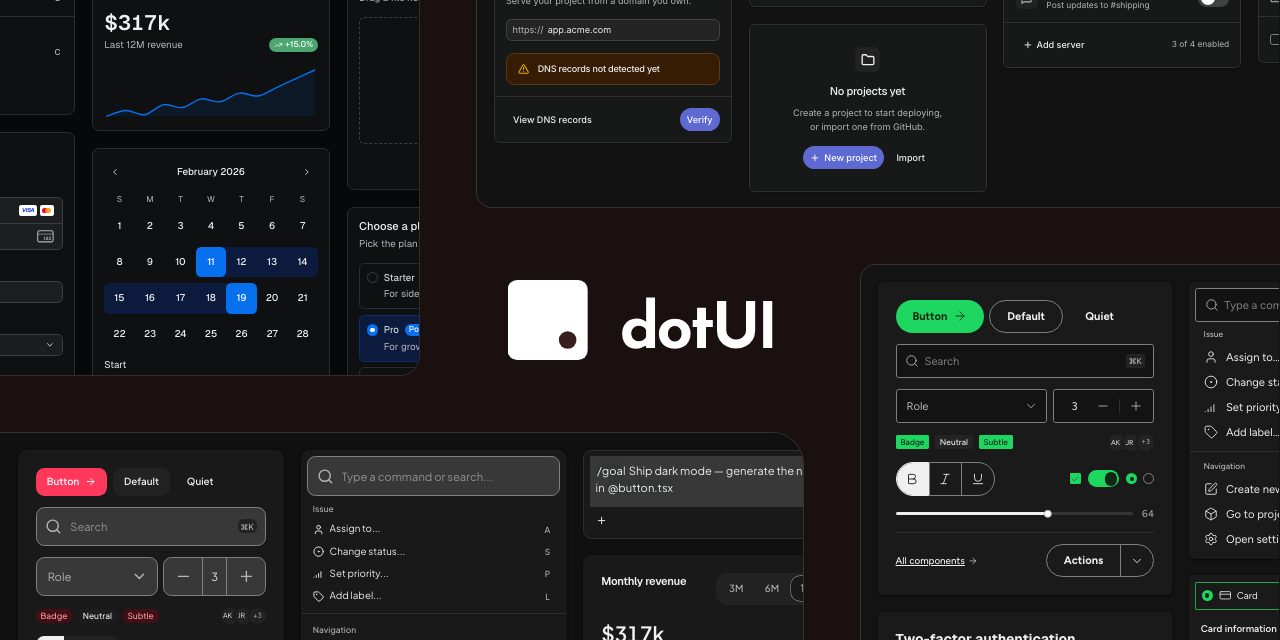
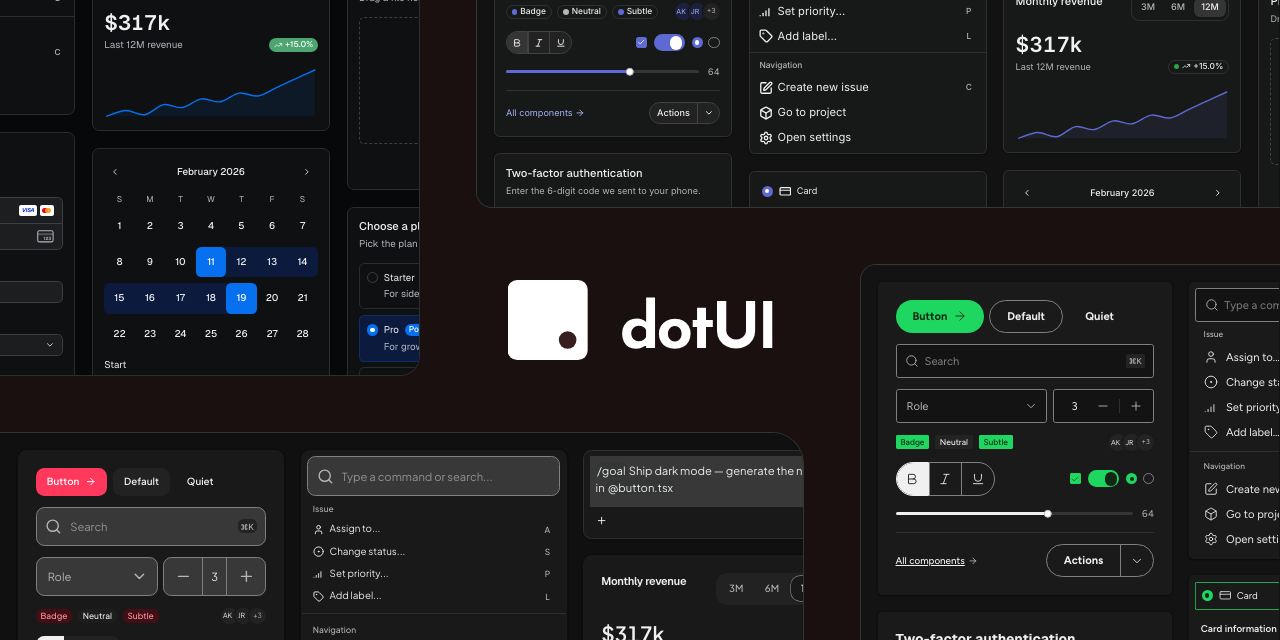
feat(brand): frame the controls card in the cover's Linear container

diff --git a/www/src/modules/marketing/cover.tsx b/www/src/modules/marketing/cover.tsx
@@ -41,7 +41,7 @@ const SLOTS: {
       left: fromCenter(GUTTER - HALF_W),
       bottom: fromCenter(HALF_H),
     },
-    scroll: [0, 1611],
+    scroll: [0, 182],
   },
   {
     preset: "spotify",
